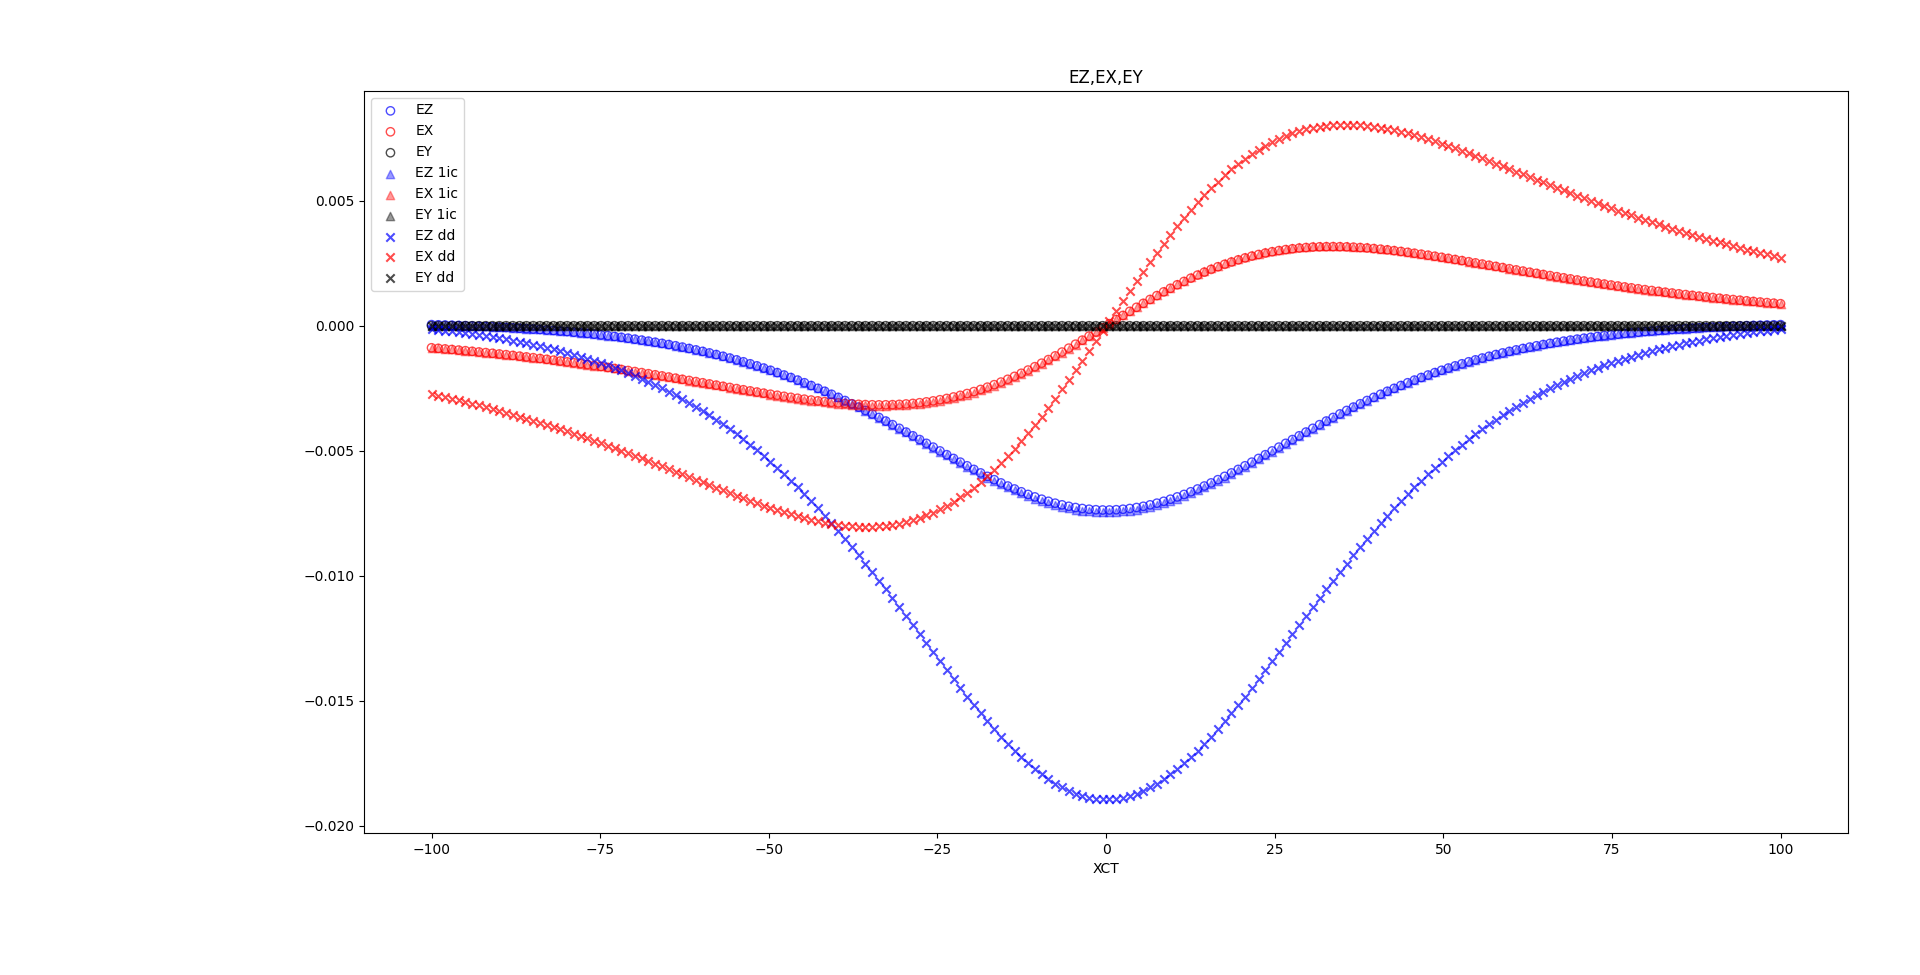
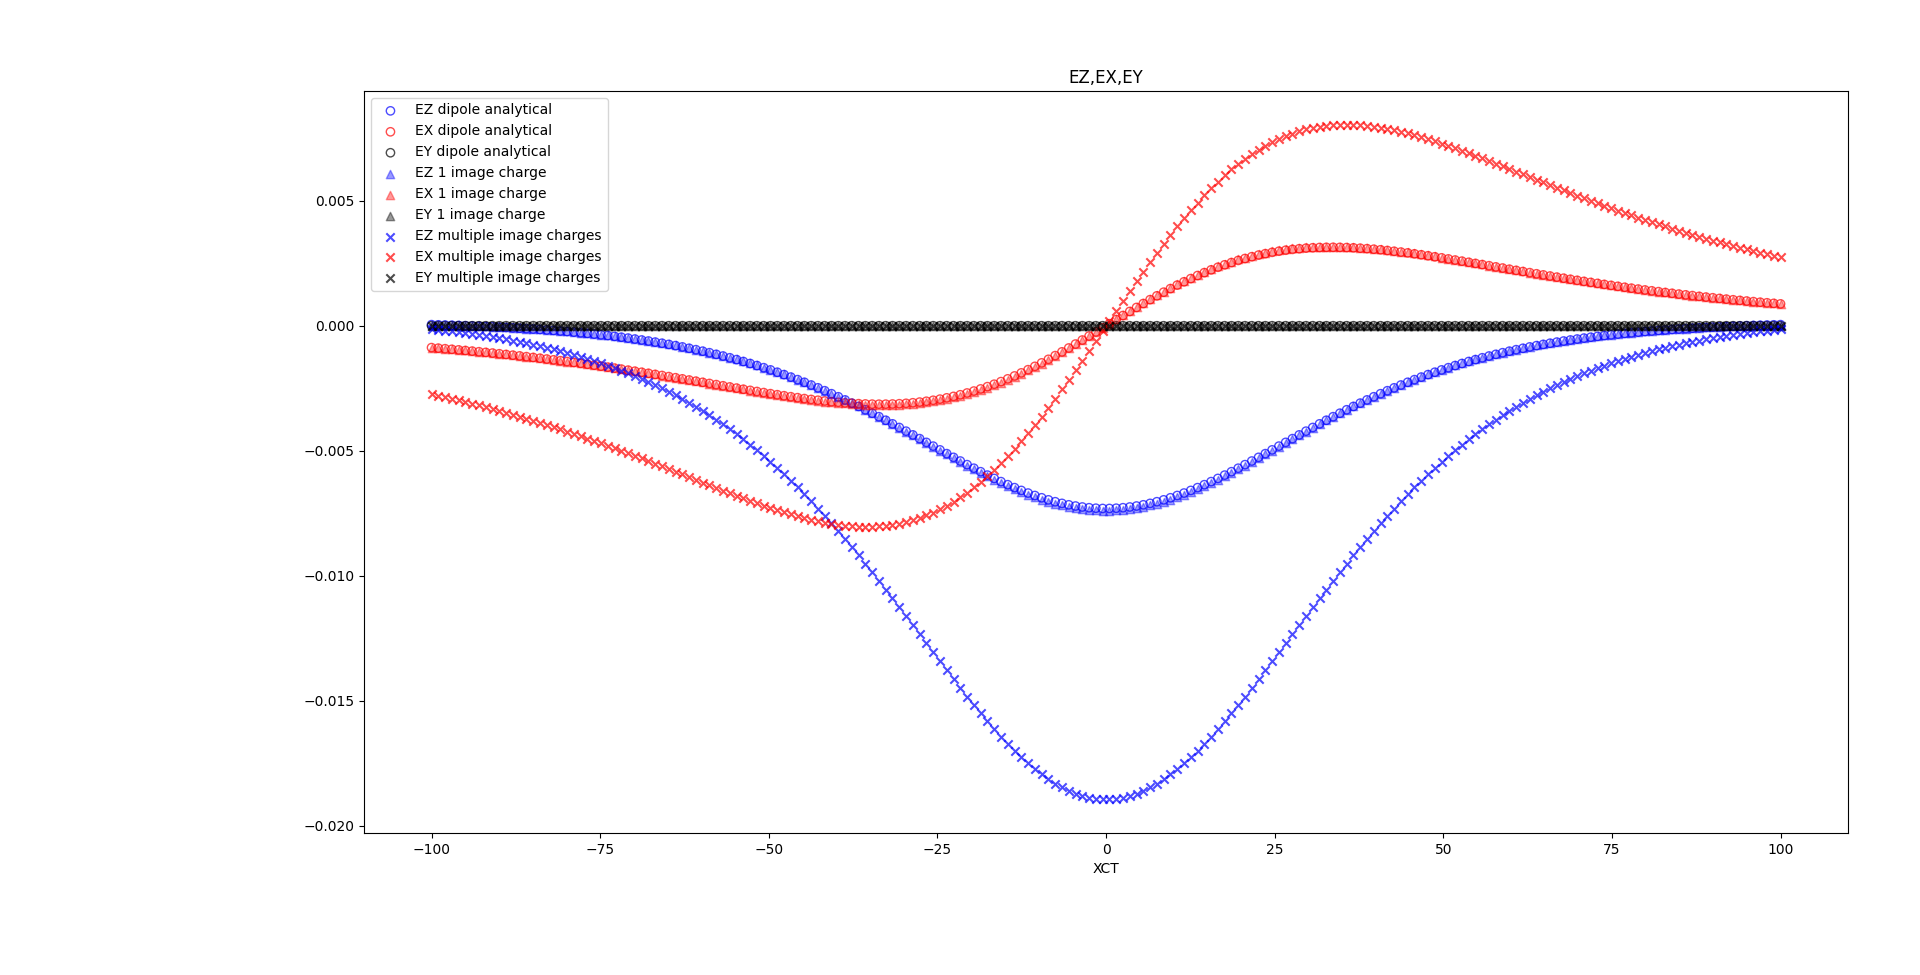
compared E x y and z , dipole and multiple slabs

diff --git a/E_field_check3.py b/E_field_check3.py
@@ -70,7 +70,7 @@ def main():
 
     Q = -ee 
 
-    EP = 13
+    EP = 13.1
 
     X = 0
 
@@ -97,7 +97,7 @@ def main():
         het.calc_image_charges()
         Efield_ic[i,:] = het.calc_ele_medium1(X, Y, Z)  
 
-        het_dd = Charge_in_medium3(-ee, ZCT, YCT, XCT[i], ep_ox=3.9, ep_sige=13, ep_qw=11.7, t_sige=T_SIGE, t_ox=T_OX, r=1e-6)
+        het_dd = Charge_in_medium3(-ee, ZCT, YCT, XCT[i], ep_ox=3.9, ep_sige=13.1, ep_qw=11.7, t_sige=T_SIGE, t_ox=T_OX, r=1e-6)
         het_dd.calc_image_charges()
         Efield_dd[i,:] = het_dd.calc_ele_medium1(X, Y, Z)  
         
@@ -111,17 +111,17 @@ def main():
 
     #ratio2 = np.divide(E_med1_a[:,0]-E_med1_b[:,0], E_med1_a[:,2]-E_med1_b[:,2],  out=np.zeros_like(E_med1_a[:,0]), where=E_med1_a[:,2]!=0, dtype=np.float64)  # Ensures precision
 
-    ax.scatter(XCT, Efield[:,0], alpha=0.7, marker='o', facecolors='none', edgecolors='blue', label = 'EZ')  # Scatter plot
-    ax.scatter(XCT, Efield[:,2], alpha=0.7, marker='o', facecolors='none', edgecolors='red', label = 'EX')  # Scatter plot
-    ax.scatter(XCT, Efield[:,1], alpha=0.7, marker='o', facecolors='none', edgecolors='black', label = 'EY')
+    ax.scatter(XCT, Efield[:,0], alpha=0.7, marker='o', facecolors='none', edgecolors='blue', label = 'EZ dipole analytical')  # Scatter plot
+    ax.scatter(XCT, Efield[:,2], alpha=0.7, marker='o', facecolors='none', edgecolors='red', label = 'EX dipole analytical')  # Scatter plot
+    ax.scatter(XCT, Efield[:,1], alpha=0.7, marker='o', facecolors='none', edgecolors='black', label = 'EY dipole analytical')
 
-    ax.scatter(XCT, Efield_ic[:,0], alpha=0.4, color='blue', marker= "^", label = 'EZ 1ic')  # Scatter plot
-    ax.scatter(XCT, Efield_ic[:,2], alpha=0.4, color='red', marker= "^", label = 'EX 1ic')  # Scatter plot
-    ax.scatter(XCT, Efield_ic[:,1], alpha=0.4, color='black', marker= "^", label = 'EY 1ic')
+    ax.scatter(XCT, Efield_ic[:,0], alpha=0.4, color='blue', marker= "^", label = 'EZ 1 image charge')  # Scatter plot
+    ax.scatter(XCT, Efield_ic[:,2], alpha=0.4, color='red', marker= "^", label = 'EX 1 image charge')  # Scatter plot
+    ax.scatter(XCT, Efield_ic[:,1], alpha=0.4, color='black', marker= "^", label = 'EY 1 image charge')
 
-    ax.scatter(XCT, Efield_dd[:,0], alpha=0.7, color='blue', marker= "x", label = 'EZ dd')  # Scatter plot
-    ax.scatter(XCT, Efield_dd[:,2], alpha=0.7, color='red', marker= "x", label = 'EX dd')  # Scatter plot
-    ax.scatter(XCT, Efield_dd[:,1], alpha=0.7, color='black', marker= "x", label = 'EY dd')
+    ax.scatter(XCT, Efield_dd[:,0], alpha=0.7, color='blue', marker= "x", label = 'EZ multiple image charges')  # Scatter plot
+    ax.scatter(XCT, Efield_dd[:,2], alpha=0.7, color='red', marker= "x", label = 'EX multiple image charges')  # Scatter plot
+    ax.scatter(XCT, Efield_dd[:,1], alpha=0.7, color='black', marker= "x", label = 'EY multiple image charges')
 
     ax.set_title('EZ,EX,EY')
     ax.set_xlabel('XCT')
